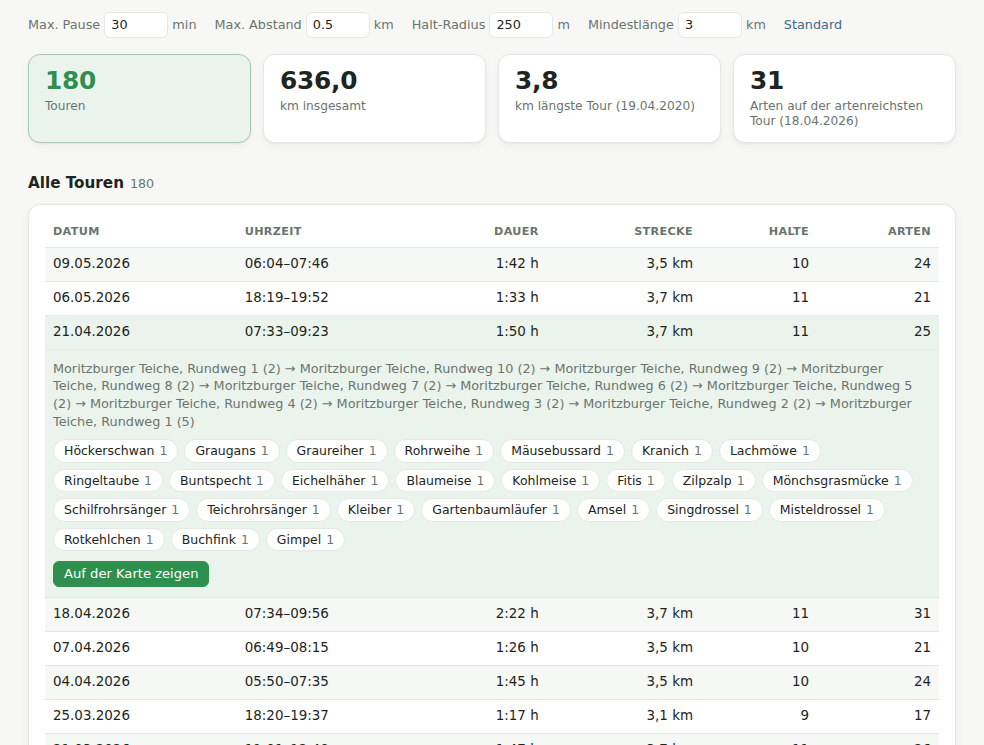
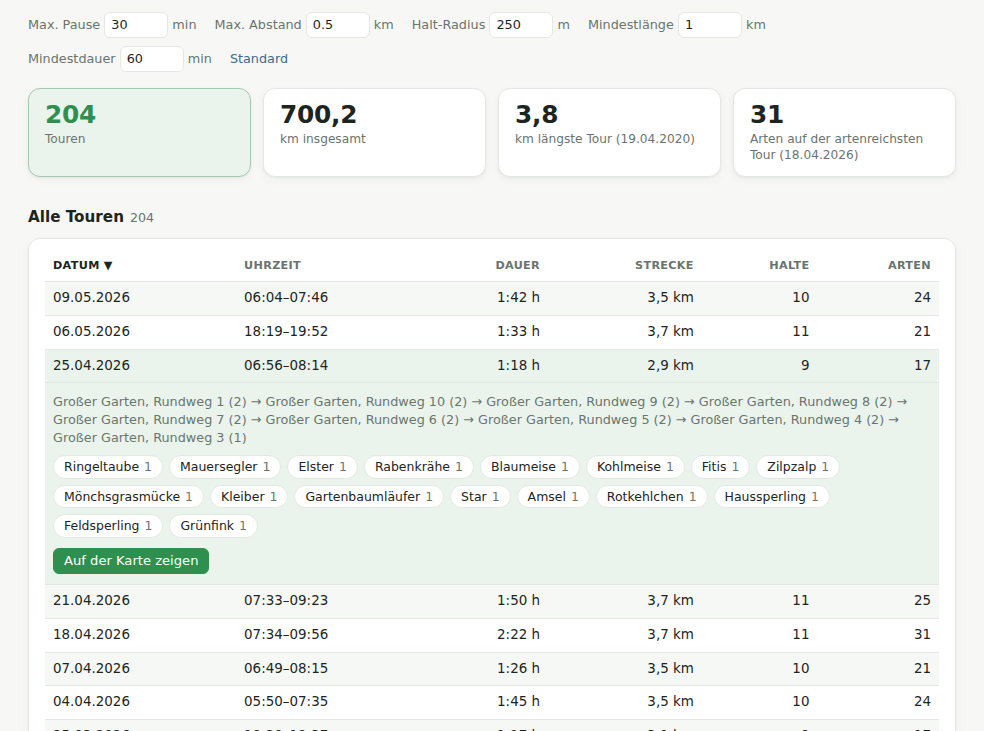
Feature: Add a minimum tour duration and sortable tour columns
- New setting "Mindestdauer", default 60 minutes: an hour is also the
  span a Beobachtungsliste covers a quadrant in. With it the default
  minimum length drops from 3 km to 1 km.
- Every column of the tours table sorts on click (date, time of day,
  duration, distance, stops, species); a second click turns it round.

diff --git a/src/tours.js b/src/tours.js
@@ -3,11 +3,12 @@
 // other within `gap` minutes and `step` km belong to the same walk or ride. Records in a row within
 // `stop` metres of each other are one stop (several species reported at one spot): the stop sits at the
 // mean position of its records. A chain with a single stop is a stay, not a tour, and tours shorter than
-// `minKm` are left out. The viewer can change all four in the tab; they are kept in localStorage.
-const TOUR_DEFAULTS = { gap: 30, step: 0.5, stop: 250, minKm: 3 };
+// `minKm` or `minDur` minutes are left out (an hour is also the span a Beobachtungsliste covers a quadrant
+// in). The viewer can change all five in the tab; they are kept in localStorage.
+const TOUR_DEFAULTS = { gap: 30, step: 0.5, stop: 250, minKm: 1, minDur: 60 };
 // [key, min, max, step of the input]
-/** @type {["gap"|"step"|"stop"|"minKm", number, number, number][]} */
-const TOUR_LIMITS = [["gap", 1, 240, 1], ["step", 0.1, 50, 0.1], ["stop", 10, 2000, 10], ["minKm", 0, 50, 0.1]];
+/** @type {["gap"|"step"|"stop"|"minKm"|"minDur", number, number, number][]} */
+const TOUR_LIMITS = [["gap", 1, 240, 1], ["step", 0.1, 50, 0.1], ["stop", 10, 2000, 10], ["minKm", 0, 50, 0.1], ["minDur", 0, 720, 5]];
 const TOURS_SHOWN = 30;
 /** @returns {typeof TOUR_DEFAULTS} */
 function loadTourCfg() {
@@ -83,7 +84,7 @@ function findTours(list) {
     byDay.get(o.d).push(o);
   }
   const tours = [];
-  const { gap, step, minKm } = S.tourCfg;
+  const { gap, step, minKm, minDur } = S.tourCfg;
   const close = (a, b) => b.tm - a.tm <= gap && distM(obsPos(a), obsPos(b)) <= step * 1000;
   for (const [d, day] of byDay) {
     day.sort((a, b) => a.tm - b.tm);
@@ -93,7 +94,7 @@ function findTours(list) {
       if (stops.length < 2) return;
       let km = 0;
       for (let i = 1; i < stops.length; i++) km += distM(stops[i - 1], stops[i]) / 1000;
-      if (km < minKm) return;
+      if (km < minKm || chain[chain.length - 1].tm - chain[0].tm < minDur) return;
       tours.push({ key: `${d}-${chain[0].tm}-${chain[0].p}`, d, y: chain[0].y, start: chain[0].tm, end: chain[chain.length - 1].tm, stops, km, obs: chain });
     };
     for (let i = 1; i < day.length; i++) {
@@ -113,22 +114,44 @@ const fmtKm = km => km.toLocaleString(S.lang === "en" ? "en-GB" : "de-DE", { min
 const fmtDuration = min => `${Math.floor(min / 60)}:${pad(min % 60)} h`;
 // the four limits as inputs; a change re-renders the tab (see the "change" handler in app.js)
 function tourSettingsHtml() {
-  const unit = { gap: "min", step: "km", stop: "m", minKm: "km" };
+  const unit = { gap: "min", step: "km", stop: "m", minKm: "km", minDur: "min" };
   return `<div class="tour-cfg">${TOUR_LIMITS.map(([k, min, max, step]) =>
     `<label>${t("tourCfg_" + k)} <input type="number" data-tour-cfg="${k}" min="${min}" max="${max}" step="${step}" value="${S.tourCfg[k]}"> ${unit[k]}</label>`).join("")}
     <button class="lnk" type="button" data-tour-reset>${t("tourCfgReset")}</button></div>`;
 }
+// sortable columns, like the life list: a click sorts, a second click turns the order round
+const TOUR_SORT = {
+  date: tr => tr.d + String(tr.start).padStart(4, "0"),
+  time: tr => tr.start,
+  dur: tr => tr.end - tr.start,
+  km: tr => tr.km,
+  stops: tr => tr.stops.length,
+  species: tr => new Set(tr.obs.map(o => o.s)).size,
+};
+/** @param {Tour[]} tours */
+function sortTours(tours) {
+  const { k, d } = S.tourSort, key = TOUR_SORT[k];
+  return [...tours].sort((a, b) => {
+    const va = key(a), vb = key(b);
+    return d * (va < vb ? -1 : va > vb ? 1 : 0) || byDateDesc(a.d, b.d);
+  });
+}
+function tourTh(k, label, cls = "") {
+  const s = S.tourSort;
+  return `<th class="sortable ${cls}${s.k === k ? " sorted" : ""}" data-tour-sort="${k}">${label}${s.k === k ? (s.d > 0 ? " ▲" : " ▼") : ""}</th>`;
+}
 function renderTours() {
   const tours = visibleTours();
-  const { gap, step, stop, minKm } = S.tourCfg;
-  const help = infoText(t("toursHelp", gap, fmtKm(step), stop, fmtKm(minKm))) + tourSettingsHtml();
+  const { gap, step, stop, minKm, minDur } = S.tourCfg;
+  const help = infoText(t("toursHelp", gap, fmtKm(step), stop, fmtKm(minKm), minDur)) + tourSettingsHtml();
   if (!tours.length) { $("tab-tours").innerHTML = help + `<p class="empty">${t("toursNone")}</p>`; updateToc(); return; }
   const stats = speciesStats(baseObs());
   const isLifer = tr => s => tr.obs.includes(stats.get(s)?.first);
   const km = tours.reduce((a, tr) => a + tr.km, 0);
   const longest = tours.reduce((a, tr) => tr.km > a.km ? tr : a);
   const richest = tours.reduce((a, tr) => new Set(tr.obs.map(o => o.s)).size > new Set(a.obs.map(o => o.s)).size ? tr : a);
-  const shown = S.tourAll ? tours : tours.slice(0, TOURS_SHOWN);
+  const sorted = sortTours(tours);
+  const shown = S.tourAll ? sorted : sorted.slice(0, TOURS_SHOWN);
   const rows = shown.map(tr => {
     const species = new Set(tr.obs.map(o => o.s));
     const open = S.tourOpen.has(tr.key);
@@ -151,8 +174,8 @@ function renderTours() {
       <div class="kpi"><b>${new Set(richest.obs.map(o => o.s)).size}</b><span>${t("toursKRichest", fmtD(richest.d))}</span></div>
     </div>
     <h2>${t("toursTitle")}<small>${tours.length}</small></h2>
-    <div class="card"><table><thead><tr><th>${t("colDate")}</th><th class="hide-sm">${t("colTime")}</th><th class="num">${t("colDuration")}</th>
-      <th class="num">${t("colDistance")}</th><th class="num hide-sm">${t("colPlaces")}</th><th class="num">${t("mapSpecies")}</th></tr></thead><tbody>${rows}</tbody></table>
+    <div class="card"><table><thead><tr>${tourTh("date", t("colDate"))}${tourTh("time", t("colTime"), "hide-sm")}${tourTh("dur", t("colDuration"), "num")}
+      ${tourTh("km", t("colDistance"), "num")}${tourTh("stops", t("colPlaces"), "num hide-sm")}${tourTh("species", t("mapSpecies"), "num")}</tr></thead><tbody>${rows}</tbody></table>
       ${tours.length > TOURS_SHOWN ? `<p class="more"><button class="lnk" data-tours-all>${S.tourAll ? t("showLess") : t("showAll", tours.length)}</button></p>` : ""}</div>`;
   updateToc();
 }

diff --git a/src/i18n.js b/src/i18n.js
@@ -7,11 +7,11 @@ de: {
   pdf: "PDF erstellen", printed: "Stand: {0}", infoToggle: "Erläuterung",
   subtitle: "Ornitho.de, Exportdatei {0}, {1} Beobachtungen",
   tabOverview: "Übersicht", tabList: "Lebensliste", tabRegions: "Regionen", tabTargets: "Ziele", tabActivity: "Tagesaktivität", tabTours: "Touren", tabMap: "Karte",
-  toursHelp: "Touren werden aus deinen Meldungen rekonstruiert: Meldungen mit Uhrzeit, die am selben Tag höchstens {0} Minuten und {1} km auseinanderliegen, gehören zu einer Tour, zum Beispiel einem Spaziergang oder einer Radtour. Meldungen hintereinander, die höchstens {2} m auseinanderliegen, sind ein Halt, etwa mehrere Arten an einer Stelle; er liegt im Mittel seiner Meldungen. Eine Tour hat mindestens zwei Halte, kürzere als {3} km werden nicht gezeigt. Alle vier Werte lassen sich unten ändern; dein Browser merkt sie sich. Die Strecke ist die Luftlinie von Halt zu Halt. Wo der Export es hergibt, zählt der GPS-Standort beim Melden oder ein genau gesetzter Punkt, sonst der ornitho-Ort.",
+  toursHelp: "Touren werden aus deinen Meldungen rekonstruiert: Meldungen mit Uhrzeit, die am selben Tag höchstens {0} Minuten und {1} km auseinanderliegen, gehören zu einer Tour, zum Beispiel einem Spaziergang oder einer Radtour. Meldungen hintereinander, die höchstens {2} m auseinanderliegen, sind ein Halt, etwa mehrere Arten an einer Stelle; er liegt im Mittel seiner Meldungen. Eine Tour hat mindestens zwei Halte; kürzere als {3} km oder {4} Minuten werden nicht gezeigt. Alle Werte lassen sich unten ändern; dein Browser merkt sie sich. Die Strecke ist die Luftlinie von Halt zu Halt. Wo der Export es hergibt, zählt der GPS-Standort beim Melden oder ein genau gesetzter Punkt, sonst der ornitho-Ort.",
   toursNone: "Keine Touren gefunden.", toursTitle: "Alle Touren", toursKCount: "Touren", toursKKm: "km insgesamt",
   toursKLongest: "km längste Tour ({0})", toursKRichest: "Arten auf der artenreichsten Tour ({0})",
   colDate: "Datum", colTime: "Uhrzeit", colDuration: "Dauer", colDistance: "Strecke", colPlaces: "Halte",
-  tourCfg_gap: "Max. Pause", tourCfg_step: "Max. Abstand", tourCfg_stop: "Halt-Radius", tourCfg_minKm: "Mindestlänge", tourCfgReset: "Standard",
+  tourCfg_gap: "Max. Pause", tourCfg_step: "Max. Abstand", tourCfg_stop: "Halt-Radius", tourCfg_minKm: "Mindestlänge", tourCfg_minDur: "Mindestdauer", tourCfgReset: "Standard",
   tourShowMap: "Auf der Karte zeigen", tourOnMap: "Tour am {0}: {1} Halte, {2} km.", tourHide: "Tour ausblenden",
   actHelp: "Zu welcher Uhrzeit du Beobachtungen meldest. Berücksichtigt sind {0} von {1} Meldungen, denn manche Meldungen (vor allem über die Weboberfläche) haben keine Uhrzeit.",
   actMObs: "Beobachtungen", actMSpecies: "Arten", actMDays: "Beobachtungstage",
@@ -121,11 +121,11 @@ en: {
   pdf: "Create PDF", printed: "As of: {0}", infoToggle: "About this",
   subtitle: "Ornitho.de, export file {0}, {1} observations",
   tabOverview: "Overview", tabList: "Life List", tabRegions: "Regions", tabTargets: "Targets", tabActivity: "Daily Activity", tabTours: "Tours", tabMap: "Map",
-  toursHelp: "Tours are reconstructed from your records: records with a time on the same day that are at most {0} minutes and {1} km apart belong to one tour, such as a walk or a bike ride. Records in a row at most {2} m apart are one stop, such as several species at one spot; it sits at the mean of its records. A tour has at least two stops; tours shorter than {3} km are not shown. You can change all four values below; your browser remembers them. The distance is the straight line from stop to stop. Where the export has it, the GPS position when reporting or a point set by hand counts, otherwise the ornitho.de place.",
+  toursHelp: "Tours are reconstructed from your records: records with a time on the same day that are at most {0} minutes and {1} km apart belong to one tour, such as a walk or a bike ride. Records in a row at most {2} m apart are one stop, such as several species at one spot; it sits at the mean of its records. A tour has at least two stops; tours shorter than {3} km or {4} minutes are not shown. You can change all values below; your browser remembers them. The distance is the straight line from stop to stop. Where the export has it, the GPS position when reporting or a point set by hand counts, otherwise the ornitho.de place.",
   toursNone: "No tours found.", toursTitle: "All tours", toursKCount: "Tours", toursKKm: "km in total",
   toursKLongest: "km longest tour ({0})", toursKRichest: "species on the richest tour ({0})",
   colDate: "Date", colTime: "Time", colDuration: "Duration", colDistance: "Distance", colPlaces: "Stops",
-  tourCfg_gap: "Max. pause", tourCfg_step: "Max. distance", tourCfg_stop: "Stop radius", tourCfg_minKm: "Minimum length", tourCfgReset: "Defaults",
+  tourCfg_gap: "Max. pause", tourCfg_step: "Max. distance", tourCfg_stop: "Stop radius", tourCfg_minKm: "Minimum length", tourCfg_minDur: "Minimum duration", tourCfgReset: "Defaults",
   tourShowMap: "Show on the map", tourOnMap: "Tour on {0}: {1} stops, {2} km.", tourHide: "Hide tour",
   actHelp: "Time of day you log sightings, covering {0} of {1} records. Some entries, especially via the web, carry no time.",
   actMObs: "Observations", actMSpecies: "Species", actMDays: "Observation days",

diff --git a/src/data.js b/src/data.js
@@ -102,7 +102,8 @@ if (initialTheme !== "system") document.documentElement.setAttribute("data-theme
  * @property {string|null} actCell - open cell of the activity tab's hour tables: "m:M-H" (month 0-11, hour) or "w:W-H" (weekday 0-6 from Monday, hour)
  * @property {string} regMonthLvl - level of the region x month table's rows: "s"|"c"|"m"|"p"
  * @property {string|null} regMonthCell - "M:regionKey" (month 0-11, region key at the table's level) of its open cell
- * @property {{gap: number, step: number, stop: number, minKm: number}} tourCfg - tour limits (see TOUR_DEFAULTS), kept in localStorage
+ * @property {{gap: number, step: number, stop: number, minKm: number, minDur: number}} tourCfg - tour limits (see TOUR_DEFAULTS), kept in localStorage
+ * @property {{k: string, d: 1|-1}} tourSort - tours table sort (see TOUR_SORT)
  * @property {Set<string>} tourOpen - keys of tours with an open detail row
  * @property {boolean} tourAll - show every tour instead of the newest ones
  * @property {string|null} tourRoute - key of the tour drawn on the map
@@ -111,7 +112,7 @@ if (initialTheme !== "system") document.documentElement.setAttribute("data-theme
 const S = { tab: "overview", region: "all", year: Math.min(TODAY_Y, MAX_Y), month: TODAY_M, timeAll: true, lang: initialLang, theme: initialTheme,
   escaped: false, collective: false, atlasF: "all", actMetric: "obs", redact: !!RAW.meta.redacted, metric: "life", q: "", sort: "nr", dir: -1, open: new Set(),
   regSort: {}, regAll: {}, targetSrc: "all", customTargets: loadCustomTargets(), wishSort: { k: "season", d: 1 },
-  wishOpen: null, wishQ: "", calDay: null, heatCell: null, actCell: null, regMonthLvl: "c", regMonthCell: null, tourCfg: null, tourOpen: new Set(), tourAll: false, tourRoute: null, focusSp: null };
+  wishOpen: null, wishQ: "", calDay: null, heatCell: null, actCell: null, regMonthLvl: "c", regMonthCell: null, tourCfg: null, tourSort: { k: "date", d: -1 }, tourOpen: new Set(), tourAll: false, tourRoute: null, focusSp: null };
 T = STR[S.lang];
 
 /* ---------- helpers ---------- */

diff --git a/src/app.js b/src/app.js
@@ -239,6 +239,13 @@ function init() {
     $$(`[data-tour-cfg="${k}"]`)?.focus();
   });
   $("tab-tours").addEventListener("click", e => {
+    const th = e.target.closest("th[data-tour-sort]");
+    if (th) {
+      const k = th.dataset.tourSort;
+      // a new column starts with the biggest (or, for the time of day, earliest) first
+      S.tourSort = S.tourSort.k === k ? { k, d: /** @type {1|-1} */ (-S.tourSort.d) } : { k, d: k === "time" ? 1 : -1 };
+      renderTours(); return;
+    }
     if (e.target.closest("[data-tour-reset]")) { S.tourCfg = { ...TOUR_DEFAULTS }; saveTourCfg(); renderTours(); return; }
     const route = e.target.closest("[data-route]");
     if (route) { S.tourRoute = route.dataset.route; setTab("map"); return; }

diff --git a/tests/test_page.py b/tests/test_page.py
@@ -276,7 +276,7 @@ class PageTest(unittest.TestCase):
     def test_tours_are_rebuilt_from_close_records(self):
         page = self.open(redact="tours", hash="#tours")
         # the fixture's tours are short: test the rules with small limits (the defaults are for real walks)
-        page.evaluate("S.tourCfg = { gap: 10, step: 1, stop: 150, minKm: 0.5 }; renderTours()")
+        page.evaluate("S.tourCfg = { gap: 10, step: 1, stop: 150, minKm: 0.5, minDur: 0 }; renderTours()")
         tours = page.evaluate("findTours(baseObs()).map(t => ({ stops: t.stops.map(s => [s.name, s.obs.length, s.lat, s.lon]), km: t.km }))")
         self.assertEqual(len(tours), 2)
         gps_tour = tours[0]  # newest first
@@ -288,6 +288,13 @@ class PageTest(unittest.TestCase):
         self.assertAlmostEqual(a_lat, (51.1000 + 51.1004 + 51.1000) / 3, places=6)
         self.assertAlmostEqual(a_lon, (14.5000 + 14.5000 + 14.5012) / 3, places=6)
         self.assertAlmostEqual(tours[0]["km"], 0.59, delta=0.02)
+        # sortable: longest first puts the 0.59 km tour above the 0.56 km one
+        page.click('th[data-tour-sort="km"]')
+        self.assertIn("▼", page.inner_text('th[data-tour-sort="km"]'))
+        self.assertEqual(page.evaluate("sortTours(visibleTours()).map(t => t.d)"), ["2024-05-01", "2024-05-02"])
+        page.click('th[data-tour-sort="km"]')
+        self.assertEqual(page.evaluate("sortTours(visibleTours()).map(t => t.d)"), ["2024-05-02", "2024-05-01"])
+        page.click('th[data-tour-sort="date"]')
         page.locator("#tab-tours tr.row").nth(1).click()
         self.assertIn("Punkt A (3) → Punkt B (1)", page.inner_text("#tab-tours"))
         page.click("[data-route]")
@@ -304,11 +311,17 @@ class PageTest(unittest.TestCase):
         page.fill('[data-tour-cfg="minKm"]', "1")
         page.press('[data-tour-cfg="minKm"]', "Enter")
         self.assertEqual(page.evaluate("findTours(baseObs()).length"), 1)
+        # and a minimum duration: the joined tour runs 07:00-07:29
+        page.fill('[data-tour-cfg="minDur"]', "30")
+        page.press('[data-tour-cfg="minDur"]', "Enter")
+        self.assertEqual(page.evaluate("findTours(baseObs()).length"), 0)
+        page.fill('[data-tour-cfg="minDur"]', "0")
+        page.press('[data-tour-cfg="minDur"]', "Enter")
         page.reload()
         self.assertEqual(page.evaluate("[S.tourCfg.gap, S.tourCfg.step, S.tourCfg.minKm]"), [30, 5, 1])
         page.click('#tabs button[data-tab="tours"]')
         page.click("[data-tour-reset]")
-        self.assertEqual(page.evaluate("S.tourCfg"), {"gap": 30, "step": 0.5, "stop": 250, "minKm": 3})
+        self.assertEqual(page.evaluate("S.tourCfg"), {"gap": 30, "step": 0.5, "stop": 250, "minKm": 1, "minDur": 60})
         # no tours without place data
         page.click("#o-sum")
         page.check("#o-redact")

diff --git a/README.md b/README.md
@@ -42,7 +42,7 @@ Die Bilder zeigen eine Lebensliste aus erfundenen Beispieldaten.
 
 ![Karte mit den Beobachtungsorten in ganz Deutschland](docs/screenshots/map.png)
 
-**Touren**, zusammengesetzt aus Meldungen, die zeitlich und räumlich nah beieinanderliegen. Wie nah (Standard: 30 Minuten Pause, 500 m Abstand, Halte im Umkreis von 250 m, mindestens 3 km lang), stellst du im Tab selbst ein:
+**Touren**, zusammengesetzt aus Meldungen, die zeitlich und räumlich nah beieinanderliegen. Wie nah (Standard: 30 Minuten Pause, 500 m Abstand, Halte im Umkreis von 250 m, mindestens 1 km und 1 Stunde), stellst du im Tab selbst ein:
 
 ![Liste der Touren mit Kennzahlen und einer geöffneten Tour](docs/screenshots/tours.png)
 
